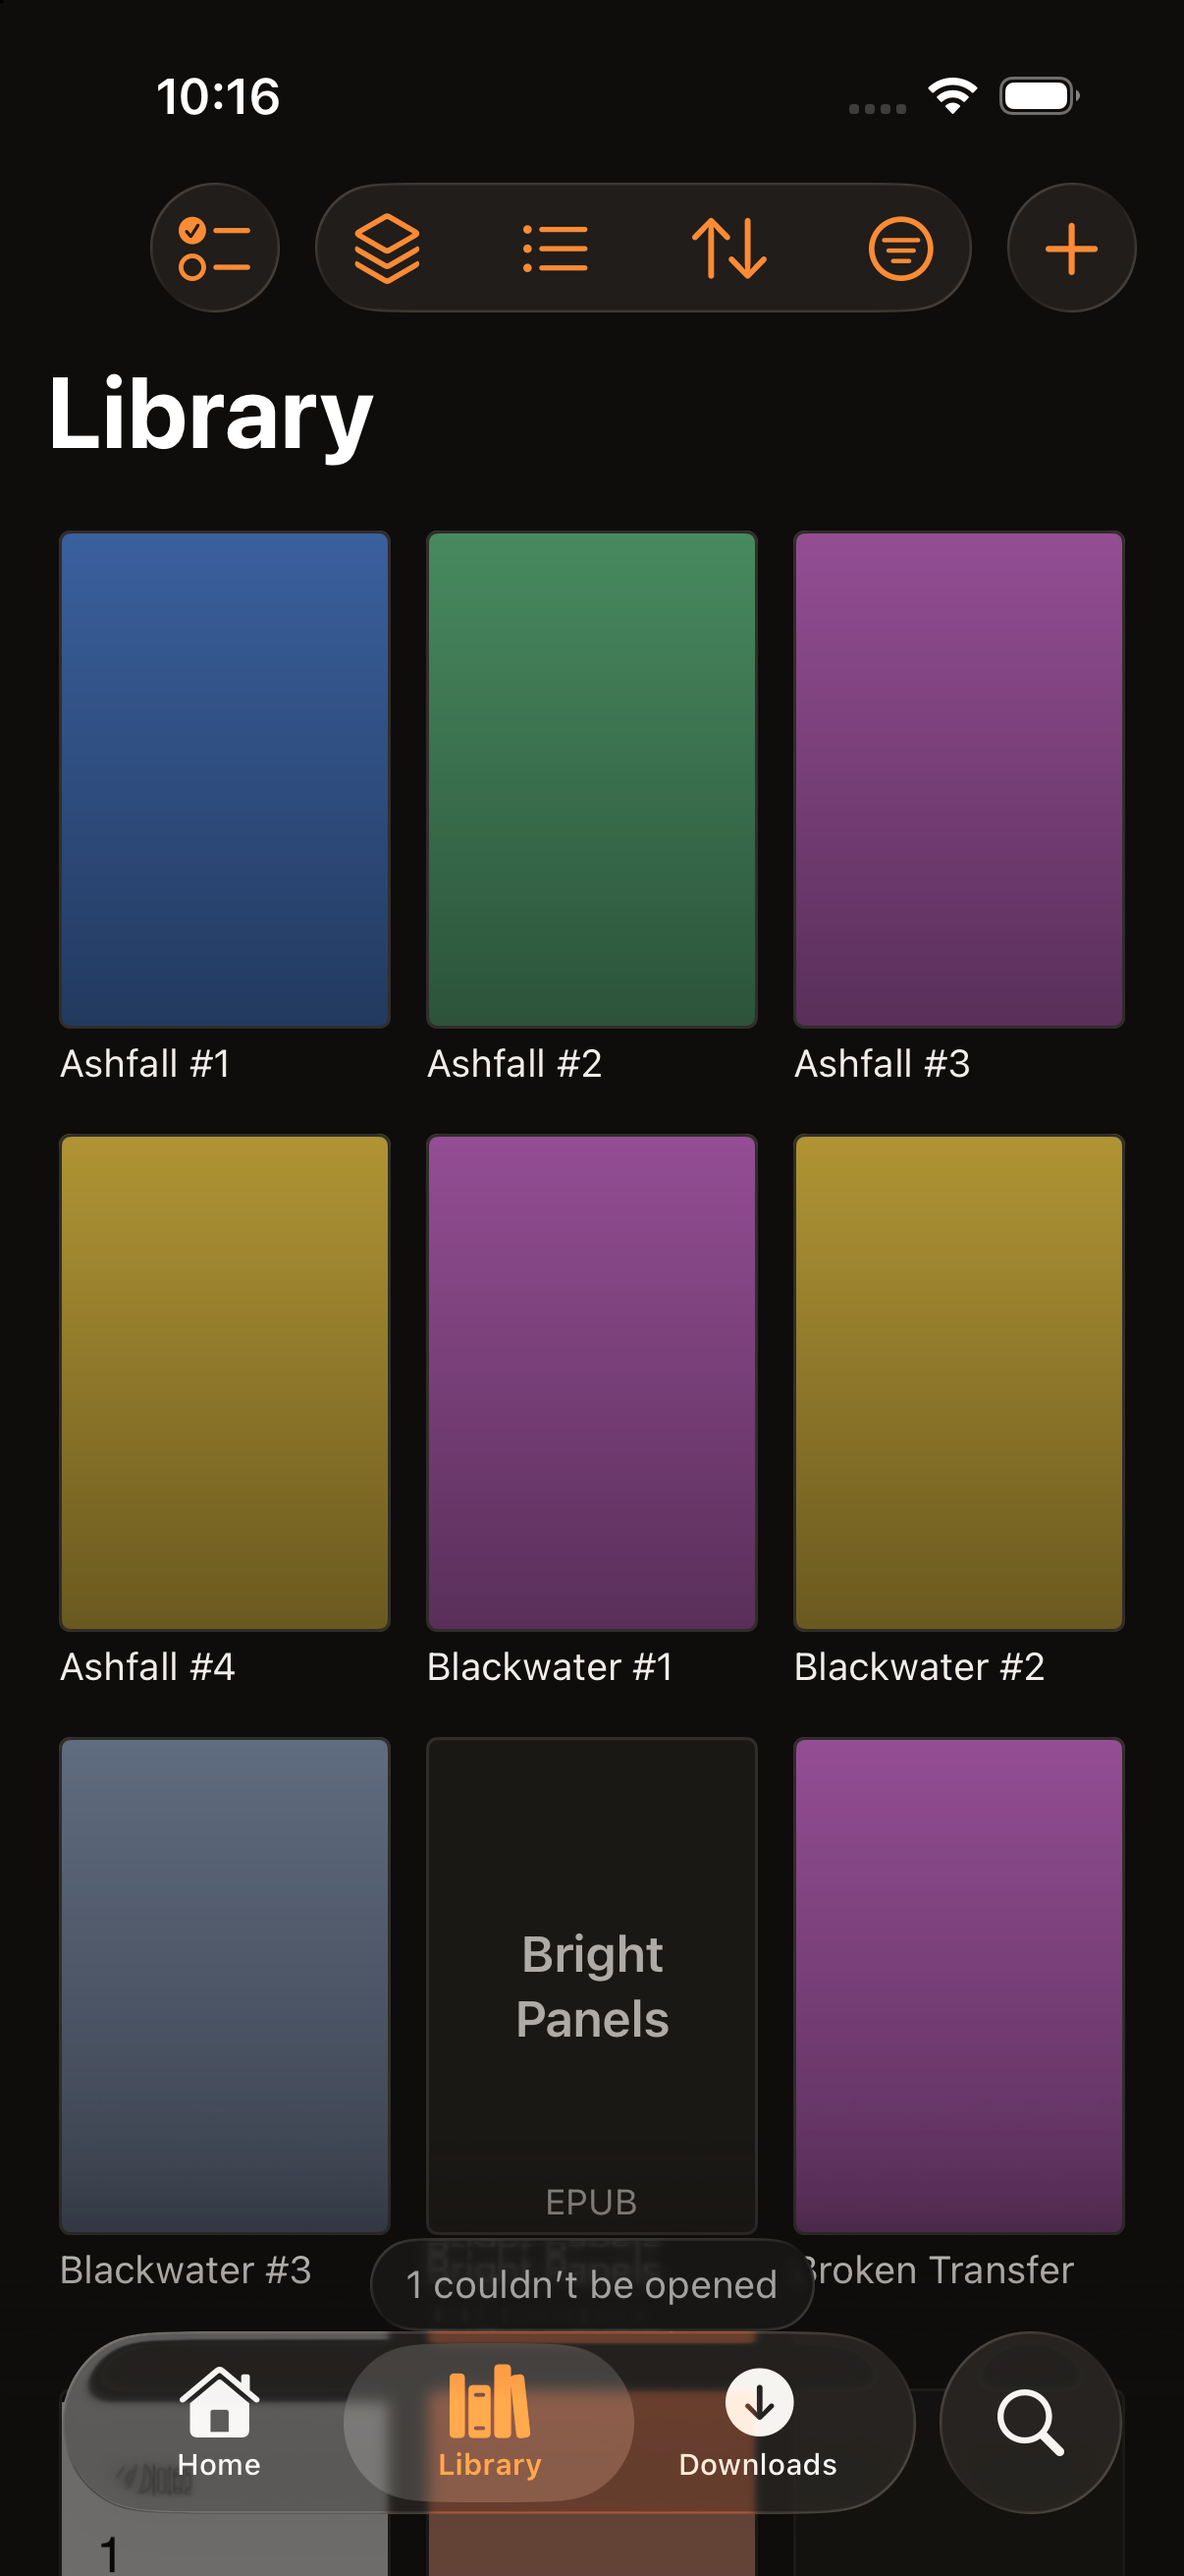
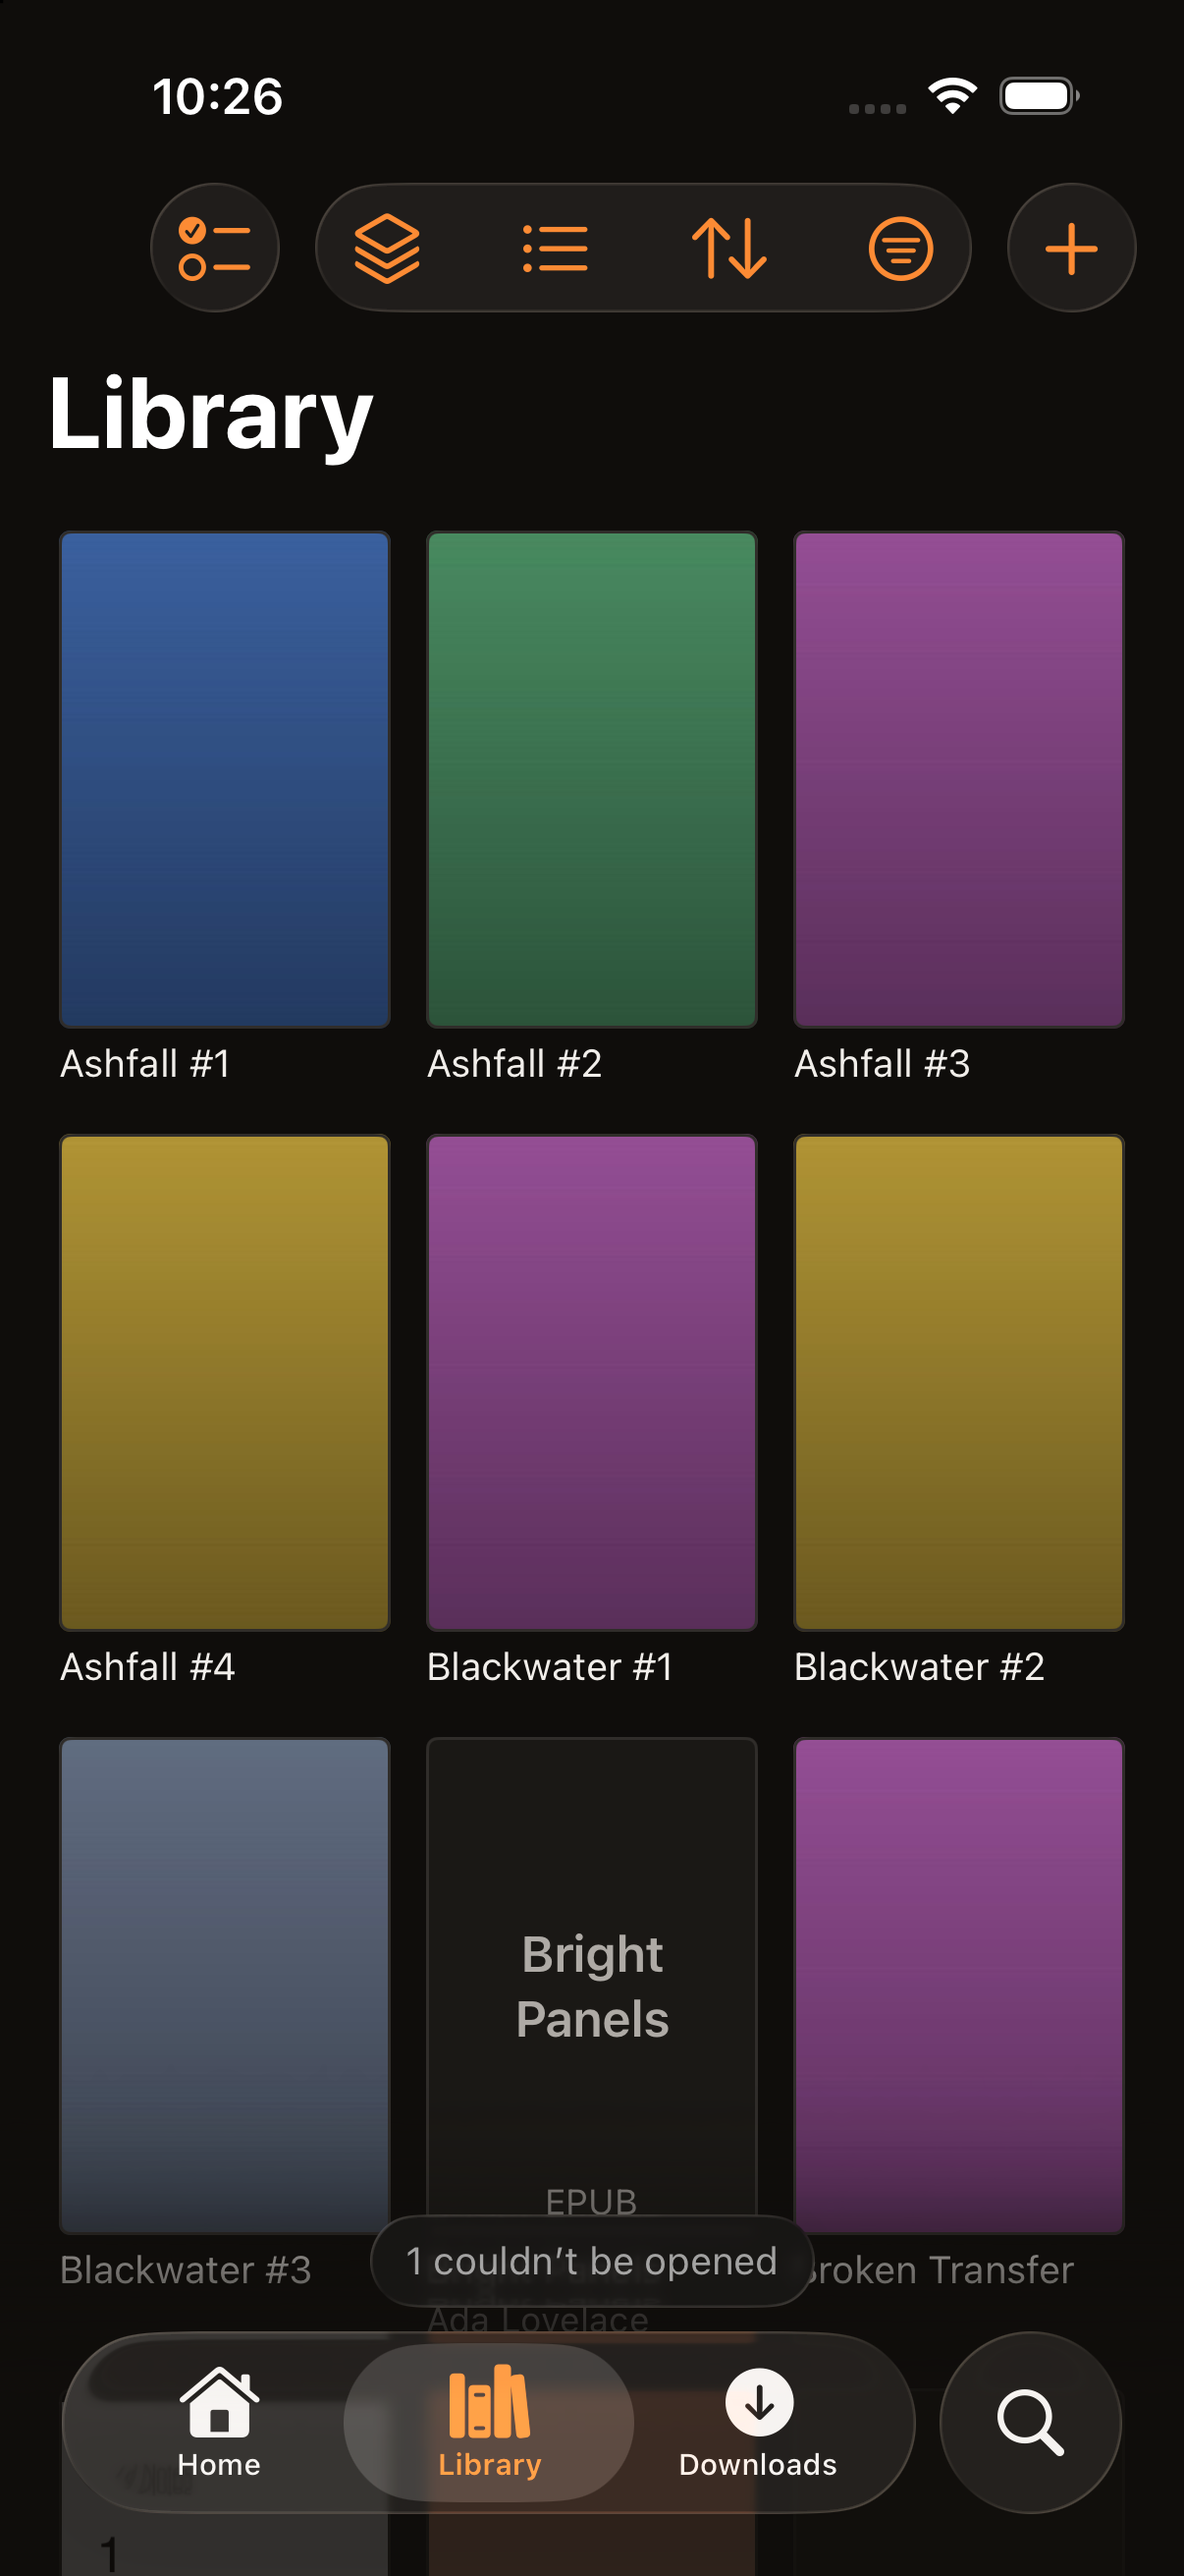
fix(ios): the scan notice keeps its distance and then recedes
Two things the owner saw on a device that the capsule change had not gone far
enough on.

A gap above the tab bar, so the capsule reads as its own thing rather than as a
second row of one.

And it leaves. `CachedNotice` beside it has always left of its own accord, and
`native-experience` asks chrome to recede -- this is news about a scan that has
finished, and news that never leaves is furniture. Six seconds, long enough to
read a short sentence twice.

Not under VoiceOver. A sentence that fades is a sentence a reader who has not
swiped to it yet never hears, and this count is stated nowhere else in the app.
A sighted reader gets a glance and their artwork back; a VoiceOver reader keeps
the fact.

diff --git a/apps/ios/Packages/StoryArcKit/Sources/LibraryFeature/LibraryStates.swift b/apps/ios/Packages/StoryArcKit/Sources/LibraryFeature/LibraryStates.swift
@@ -59,16 +59,47 @@ struct ScanningView: View {
 /// full-bleed bar pinned above the tab bar reads as a wall between the reader and the
 /// artwork, which is the opposite of the rule chrome here is held to: it recedes.
 struct ScanSummary: View {
+    /// Long enough to read a short sentence twice, short enough that it is not furniture.
+    private static let dwell = Duration.seconds(6)
+
+    @Environment(\.accessibilityVoiceOverEnabled) private var isSpeaking
+
     let found: Int
     let skipped: Int
 
+    /// Whether the sentence is still on screen. It leaves on its own — see the body.
+    @State private var isShowing = true
+
     var body: some View {
-        Text("library.skipped \(skipped)", bundle: .module)
-            .textRole(.footnote)
-            .storyArcGlassText()
-            .padding(.horizontal, StoryArcSpace.md)
-            .padding(.vertical, StoryArcSpace.sm)
-            .storyArcGlass()
+        Group {
+            if isShowing {
+                Text("library.skipped \(skipped)", bundle: .module)
+                    .textRole(.footnote)
+                    .storyArcGlassText()
+                    .padding(.horizontal, StoryArcSpace.md)
+                    .padding(.vertical, StoryArcSpace.sm)
+                    .storyArcGlass()
+                    // A gap, so the capsule reads as its own thing above the tab bar rather
+                    // than as a second row of it.
+                    .padding(.bottom, StoryArcSpace.sm)
+                    .transition(.opacity)
+            }
+        }
+        // It goes of its own accord, like ``CachedNotice``. This is news about a scan that
+        // has finished, and news that never leaves is furniture — `native-experience` asks
+        // chrome to recede, and a sentence parked above the tab bar for the rest of the
+        // session is the opposite of receding.
+        //
+        // **Except under VoiceOver.** A sentence that fades is a sentence a reader who has
+        // not yet swiped to it never hears, and the count is stated nowhere else. Sighted
+        // readers get a glance and their artwork back; VoiceOver readers keep the fact.
+        .task(id: skipped) {
+            isShowing = true
+            guard !isSpeaking else { return }
+            try? await Task.sleep(for: Self.dwell)
+            guard !Task.isCancelled else { return }
+            withAnimation(.easeOut(duration: 0.4)) { isShowing = false }
+        }
     }
 }
 

diff --git a/docs/designs/screenshots/after-2026-08-31/README.md b/docs/designs/screenshots/after-2026-08-31/README.md
@@ -165,3 +165,25 @@ reader's chosen size.
 
 **Still visible in this capture and not fixed:** the filter chip row above the shelf runs
 off the window with no affordance that it scrolls. It is recorded as its own item.
+
+---
+
+# The shelf's notice: a capsule, with a gap, that recedes
+
+`before-2026-08-31/ios-notice-band-dark` → `ios-notice-capsule-dark` → `ios-notice-receded-dark`,
+all on the booted iPhone 17 Pro in dark mode at the default text size.
+
+The first is a full-bleed band pinned across the window, which was the only rectangle in an
+app whose every other piece of chrome — the tab bar, the search field, the shelf's toolbar
+group — is a floating capsule. It cut the covers either side of it in half.
+
+The second is the same sentence as a capsule that hugs it, with a gap above the tab bar so
+it reads as its own thing rather than a second row of one.
+
+The third is the same screen nine seconds later. It has gone. This is news about a scan that
+has finished, and `native-experience` asks chrome to recede — a sentence parked above the tab
+bar for the rest of the session is furniture, not news.
+
+**Except under VoiceOver**, where it stays. A sentence that fades is a sentence a reader who
+has not yet swiped to it never hears, and the count is stated nowhere else in the app. A
+sighted reader gets a glance and their artwork back; a VoiceOver reader keeps the fact.
